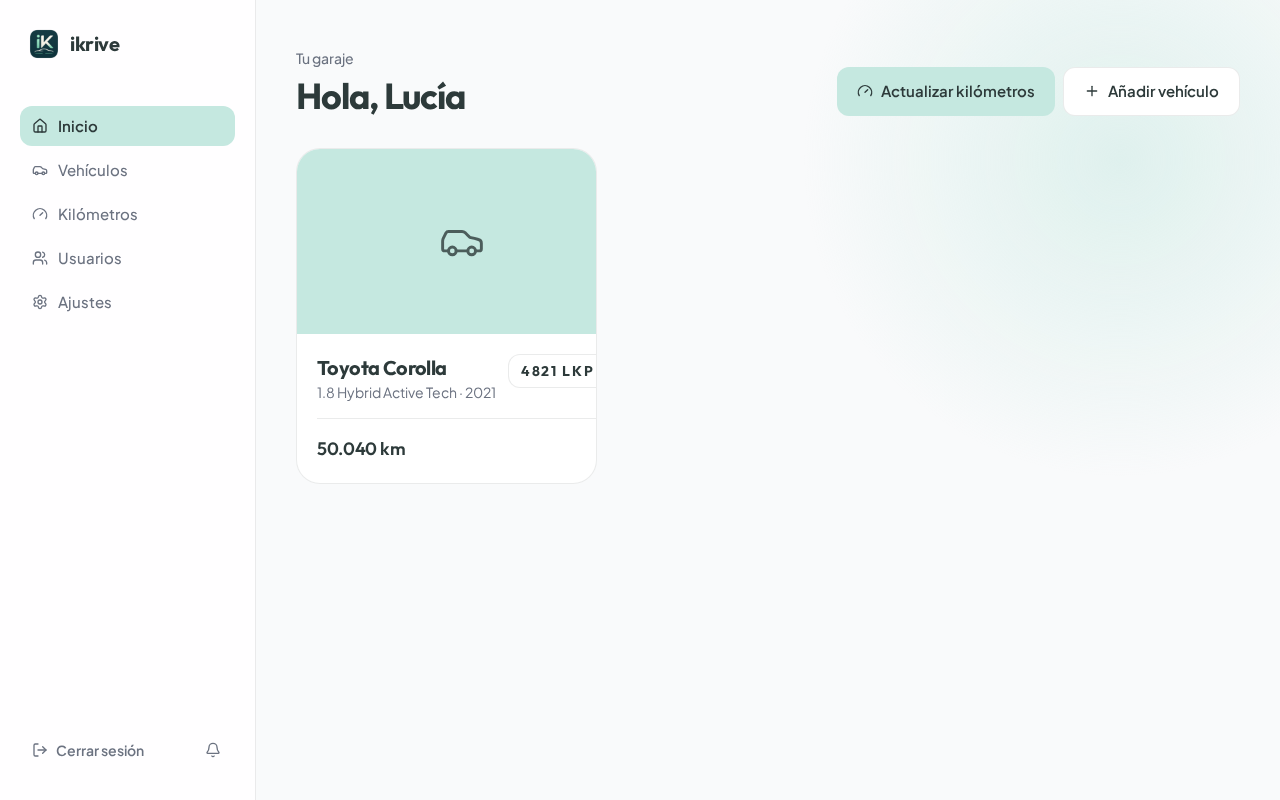
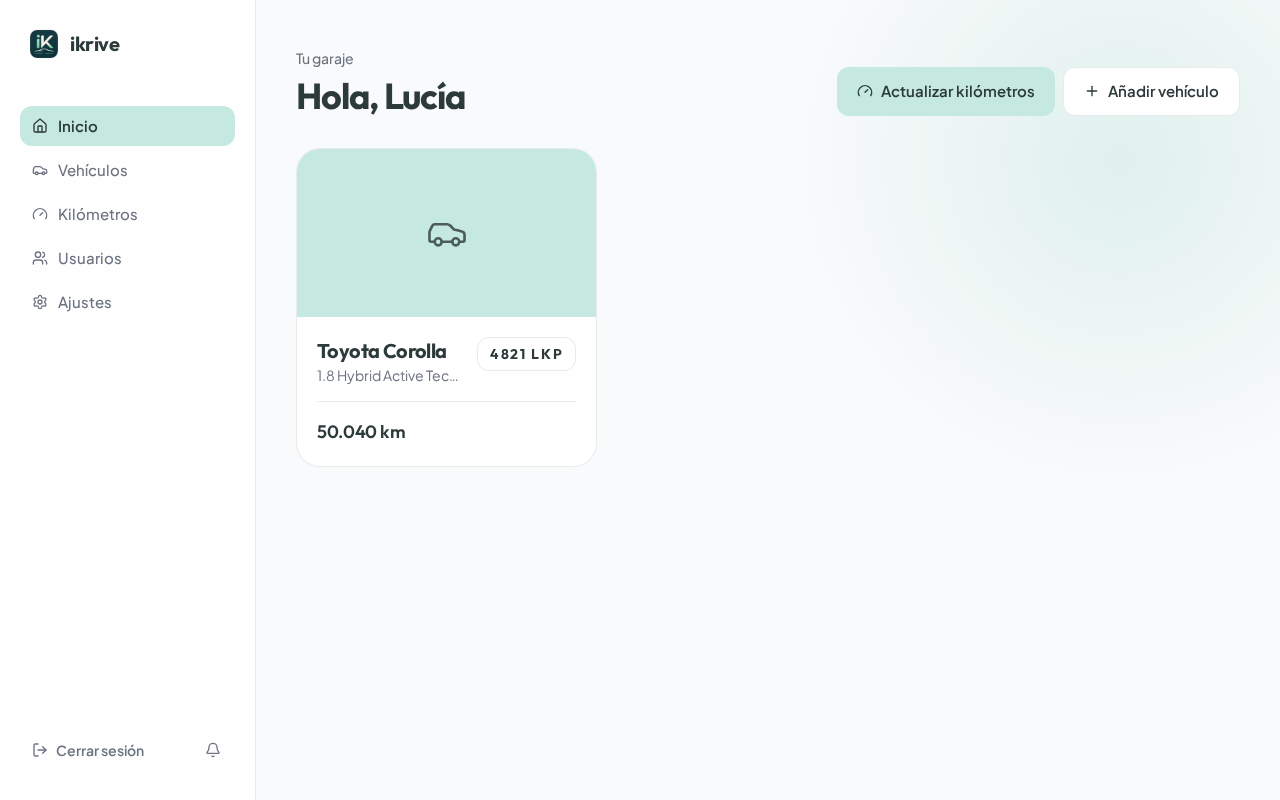
docs: regenerate the screenshots and clarify version, data dir and restore

Changed region(s): [[0.2188, 0.375, 0.4688, 0.5], [0.25, 0.5312, 0.3125, 0.5938], [0.3125, 0.2812, 0.375, 0.3438]]

diff --git a/docs/self-hosting.md b/docs/self-hosting.md
@@ -60,7 +60,7 @@ Se leen del `.env` (`env_file` en `docker-compose.yml`). Los booleanos admiten `
 | `HOST` | `0.0.0.0` | Interfaz en la que escucha el servidor. **Lo fija la imagen**: no lo cambies |
 | `DATA_DIR` | `./data` (`/data` en la imagen) | Carpeta de la base de datos y de los ficheros subidos. **Lo fija la imagen**: monta el volumen en `/data` en lugar de cambiarlo |
 | `WEB_DIST_DIR` | — (`/app/public` en la imagen) | Carpeta con la web compilada que sirve la API. **Lo fija la imagen**: no lo cambies |
-| `IKRIVE_VERSION` | `0.0.0-dev` | Versión que muestra la instancia y que se guarda en los exports. **La fija la imagen** al construirse a partir del tag (por ejemplo `v0.1.0`) |
+| `IKRIVE_VERSION` | `0.0.0-dev` (`0.0.0` en una imagen construida sin `--build-arg VERSION`) | Versión que muestra la instancia y que se guarda en los exports. **La fija la imagen** al construirse a partir del tag (por ejemplo `v0.1.0`); un `docker build` local sin `--build-arg VERSION=…` la deja en `0.0.0` |
 
 ## Copias de seguridad
 
@@ -89,7 +89,7 @@ rm -rf data && tar -xzf ikrive-AAAA-MM-DD.tar.gz
 docker compose start
 ```
 
-El contenedor se ejecuta como el usuario `node` (uid 1000): si restauras con otro usuario, devuelve la carpeta a su dueño con `sudo chown -R 1000:1000 data`. Si la copia es de una versión anterior, las migraciones pendientes se aplican al arrancar.
+El contenedor se ejecuta como el usuario `node` (uid 1000) y es el dueño de los ficheros de `data`: si tu usuario del host no es el uid 1000, borrar o sustituir la carpeta (`rm -rf data`) puede fallar por permisos y necesitar `sudo` (`sudo rm -rf data`). Después de restaurar con otro usuario, devuelve la carpeta a su dueño con `sudo chown -R 1000:1000 data`. Si la copia es de una versión anterior, las migraciones pendientes se aplican al arrancar.
 
 ### Export e import por usuario
 
